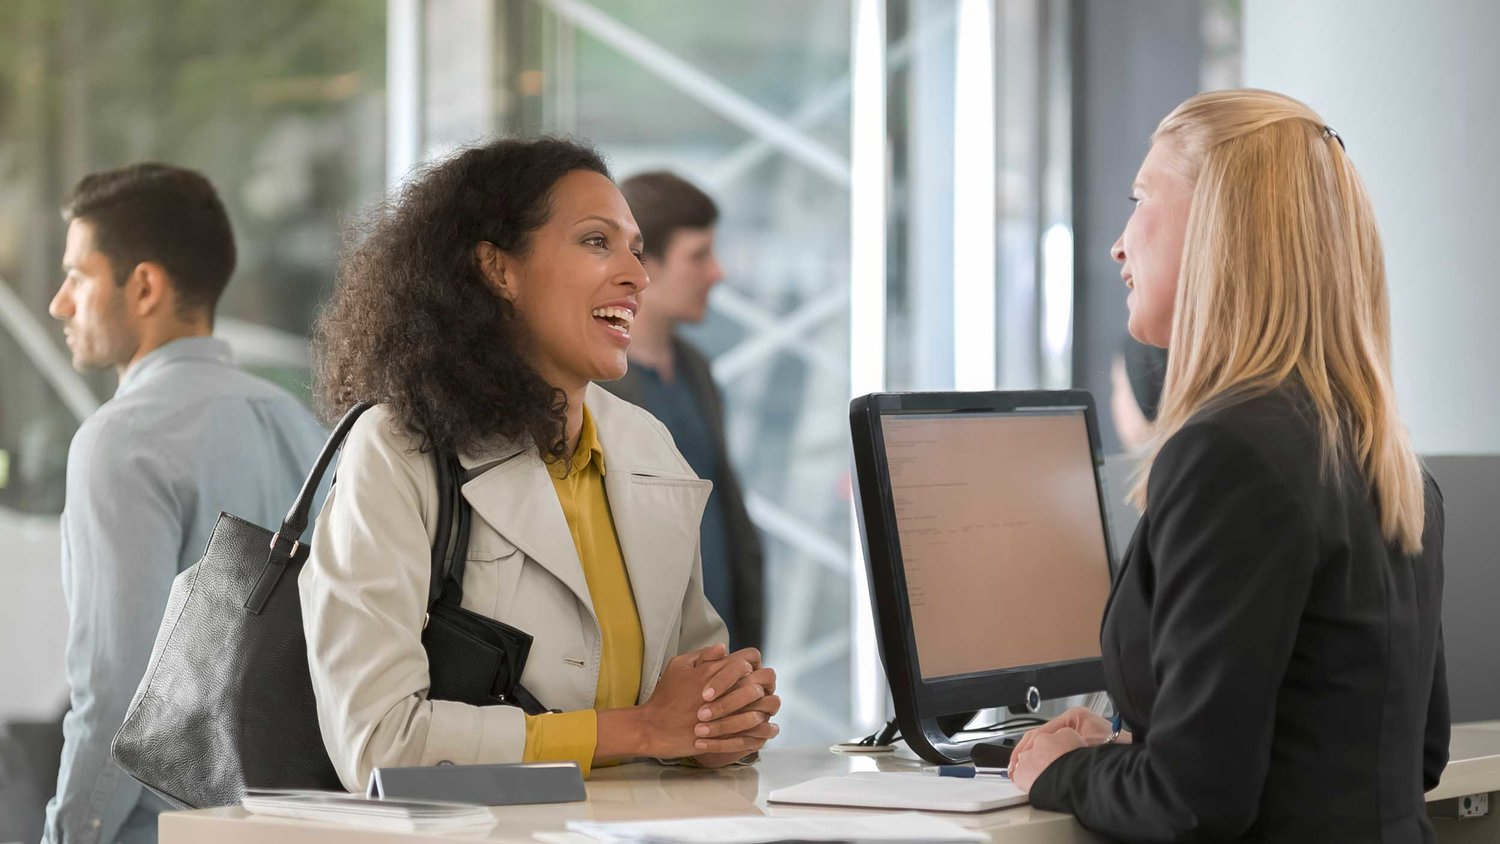
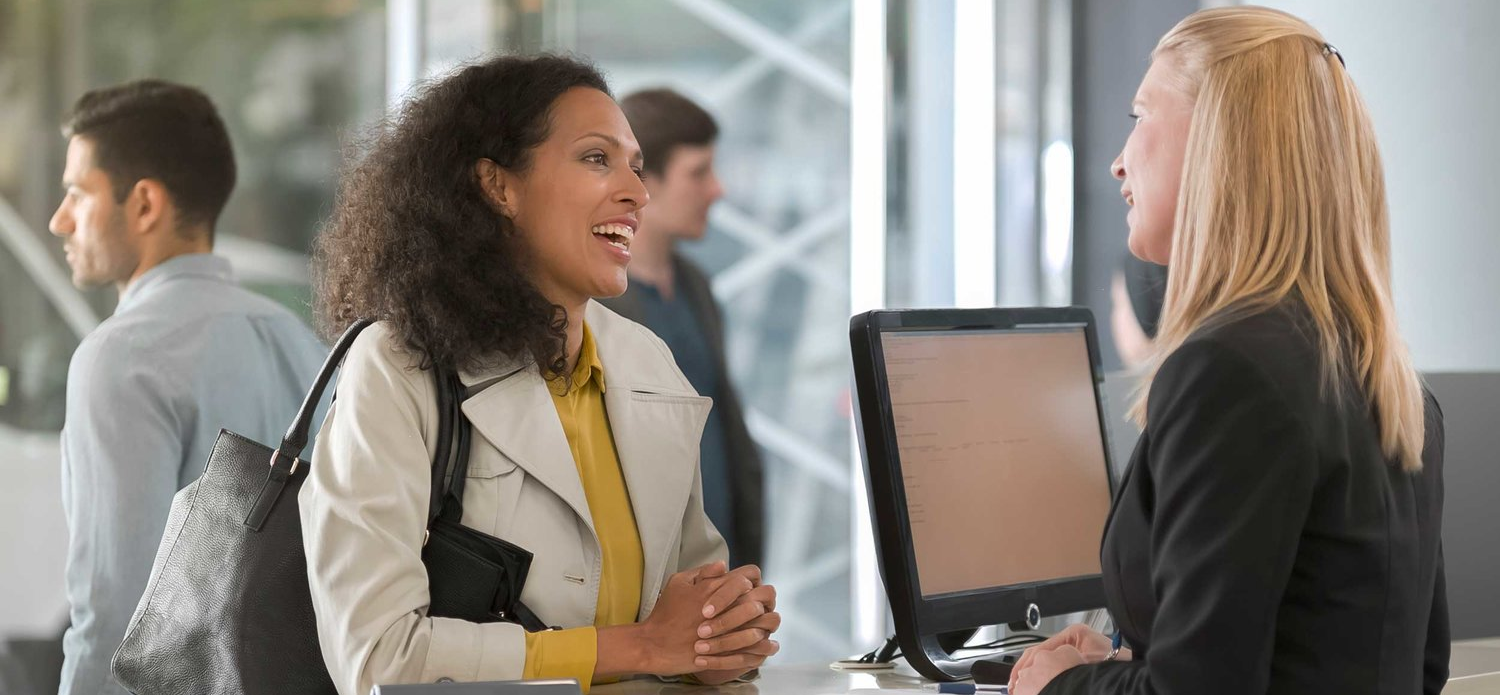
fix: smaller hero image fix: better responsive logout buttons

diff --git a/src/components/LogOut/LogOut.scss b/src/components/LogOut/LogOut.scss
@@ -37,11 +37,17 @@
     }
   }
   &__button-wrapper {
-    margin: 1rem;
-    margin-bottom: 0;
+    margin: 1rem 0 0;
     display: flex;
     align-items: center;
+    flex-direction: column;
     justify-content: space-between;
+    width: 100%;
+    @media (min-width: $breakpoint-tablet) {
+      justify-content: space-evenly;
+      flex-direction: row;
+      align-items: center;
+    }
   }
 
   &__button {
@@ -49,11 +55,12 @@
     color: white;
     padding: 0.5rem;
     border-radius: 0.25rem;
-    width: 100%;
+    width: 95%;
     text-align: center;
     font-weight: bold;
-    width: 5.3125rem;
+    margin-top: 0.5rem;
     @media (min-width: $breakpoint-tablet) {
+      margin-top: unset;
       width: 5.3125rem;
     }
     &:disabled {
@@ -71,10 +78,9 @@
     color: $secondary;
     padding: 0.5rem;
     border-radius: 0.25rem;
-    width: 100%;
+    width: 95%;
     text-align: center;
     font-weight: bold;
-    width: 5.3125rem;
     @media (min-width: $breakpoint-tablet) {
       width: 5.3125rem;
     }
